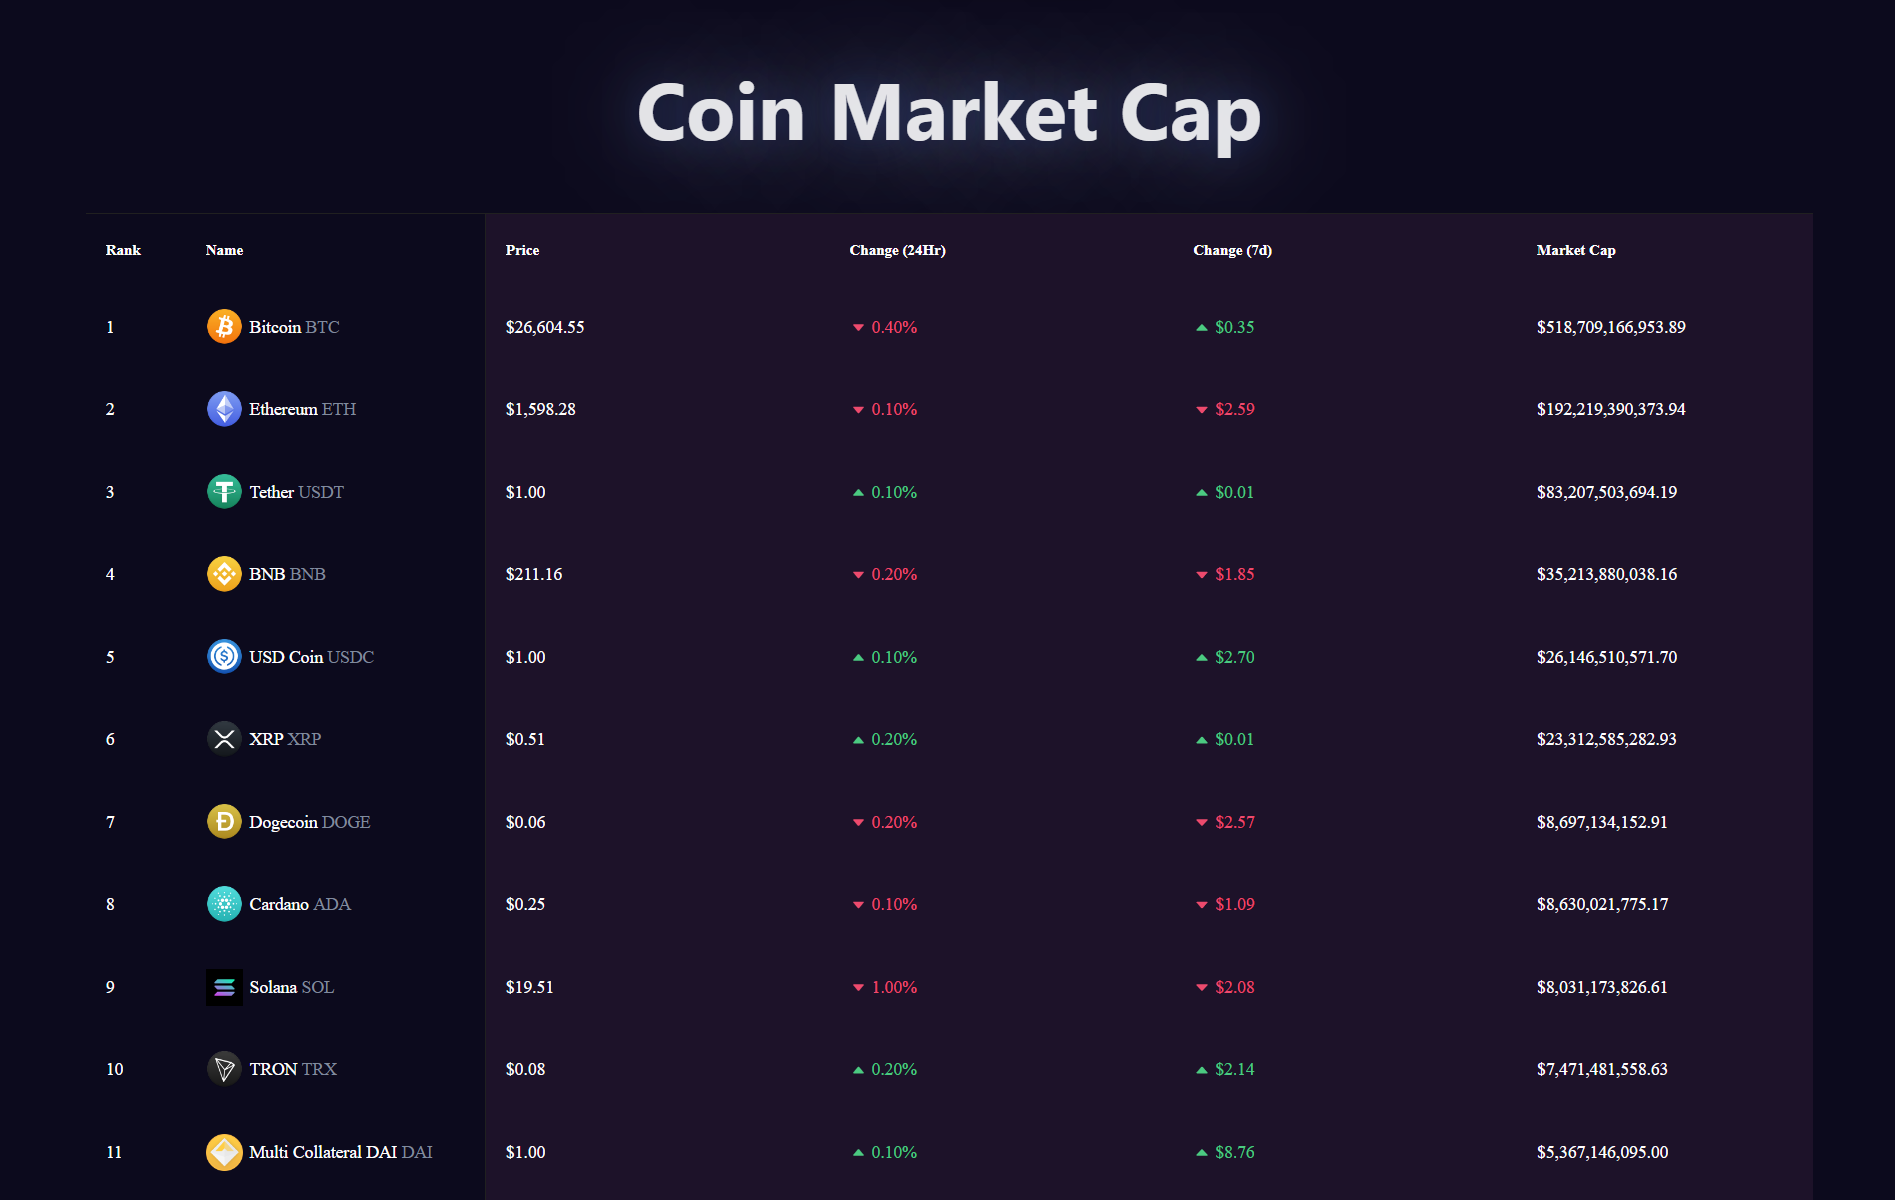
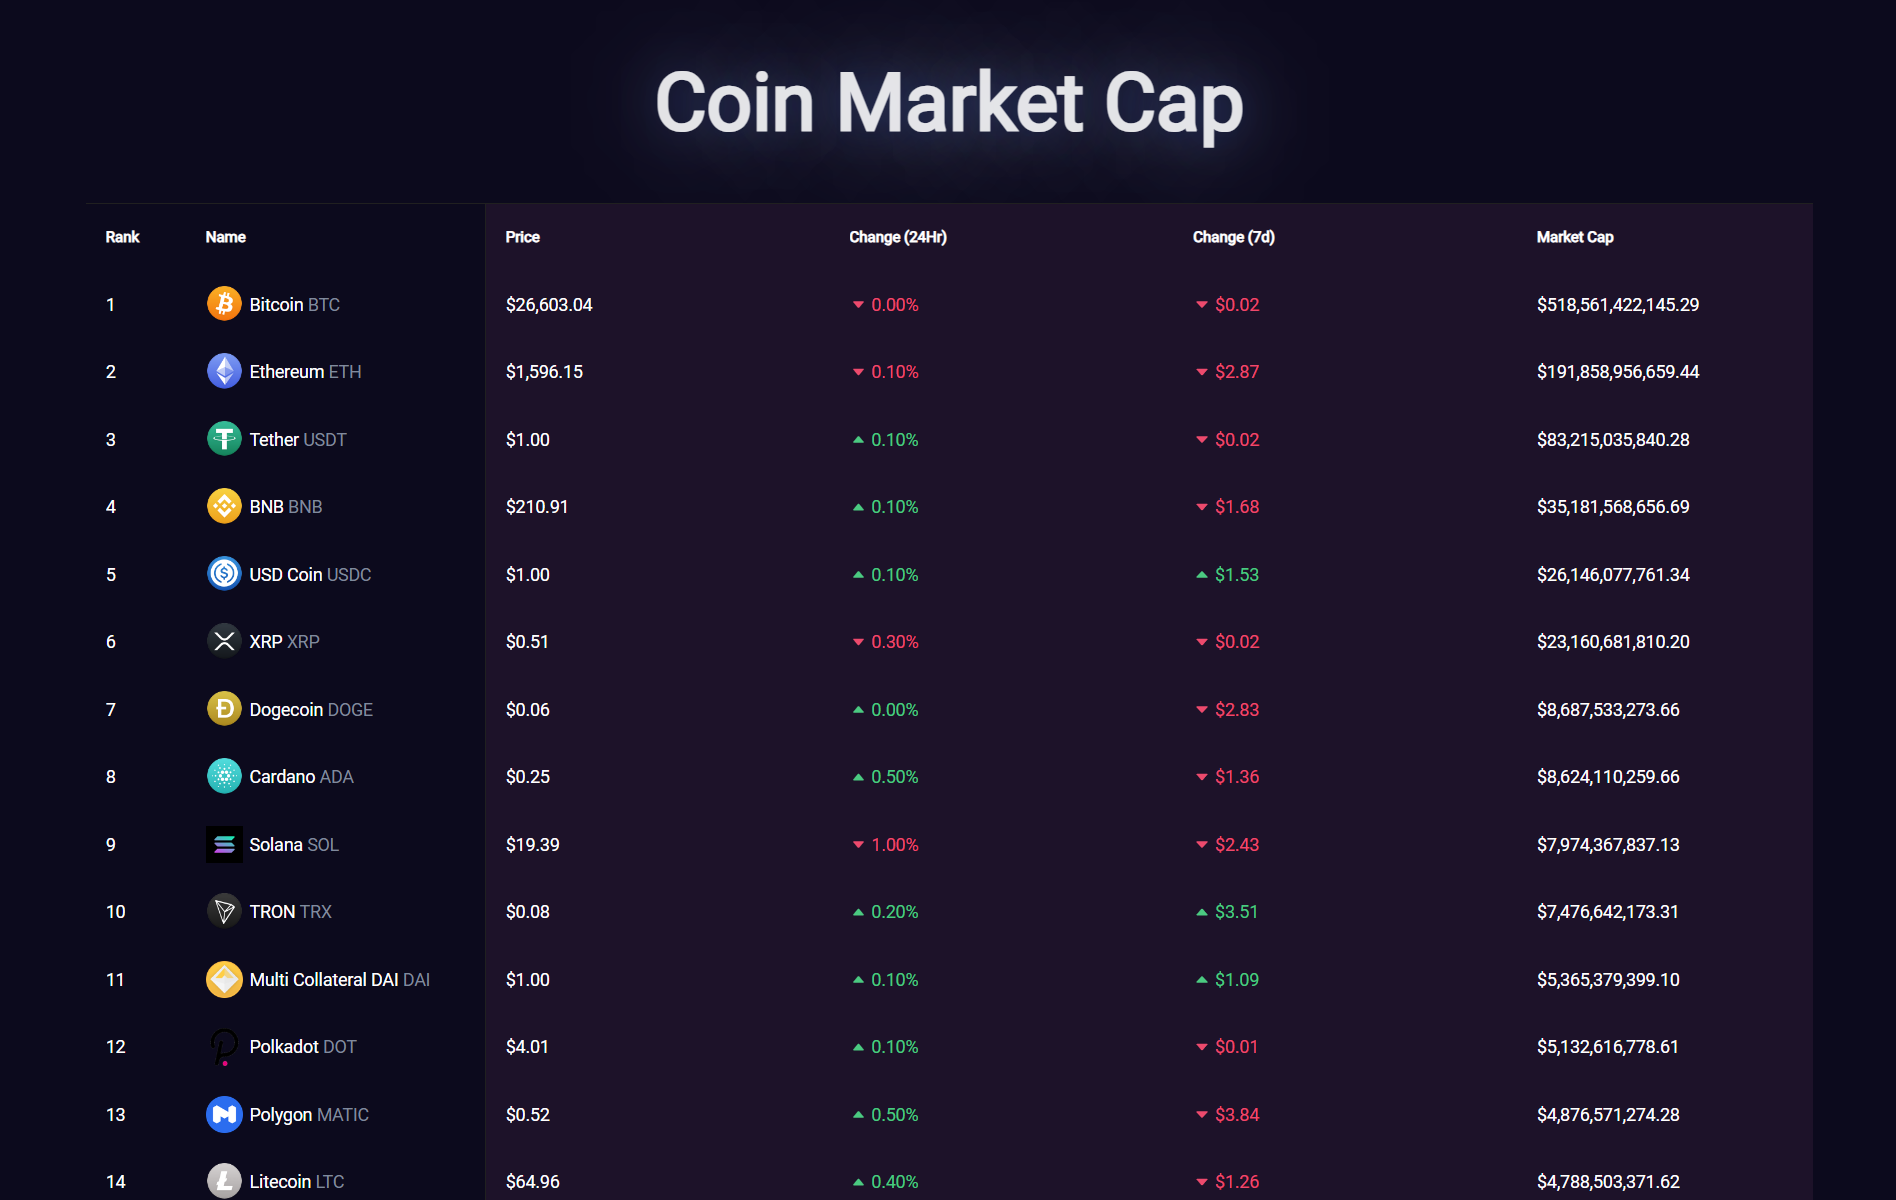
Change image preview for Cryptocurrency prices table app

diff --git a/index.html b/index.html
@@ -57,7 +57,7 @@
                             </p>
                         </div>
                         <a class="project-img-box" href="https://tanyaignatenko.github.io/crypto-prices-table/">
-                            <img width="610" height="393" src="./images/crypto-prices-table.png" class="project-img"/>
+                            <img width="610" height="393" src="./images/crypto-prices-table2.png" class="project-img"/>
                         </a>    
                     </div>
                 </li>
